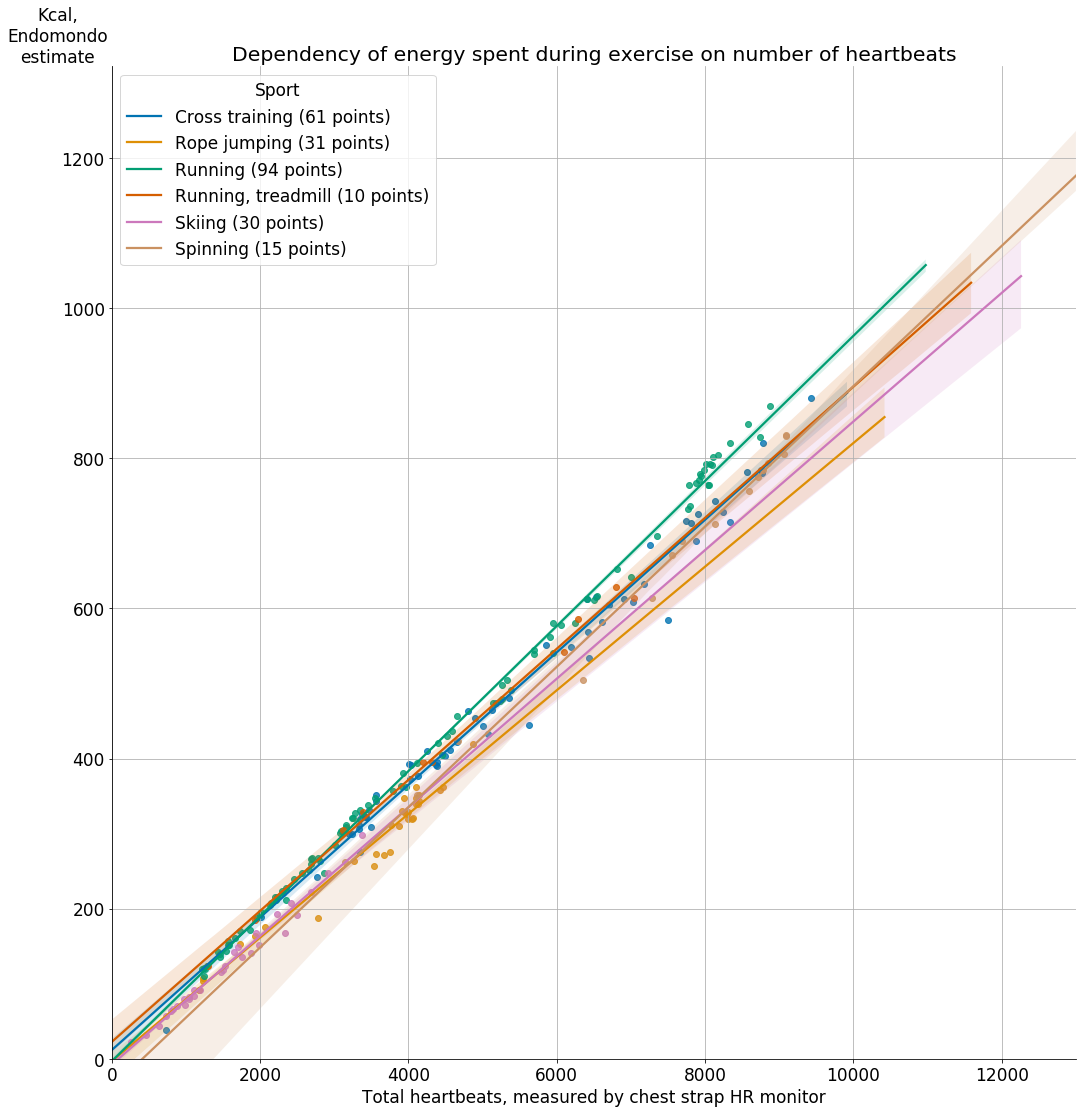
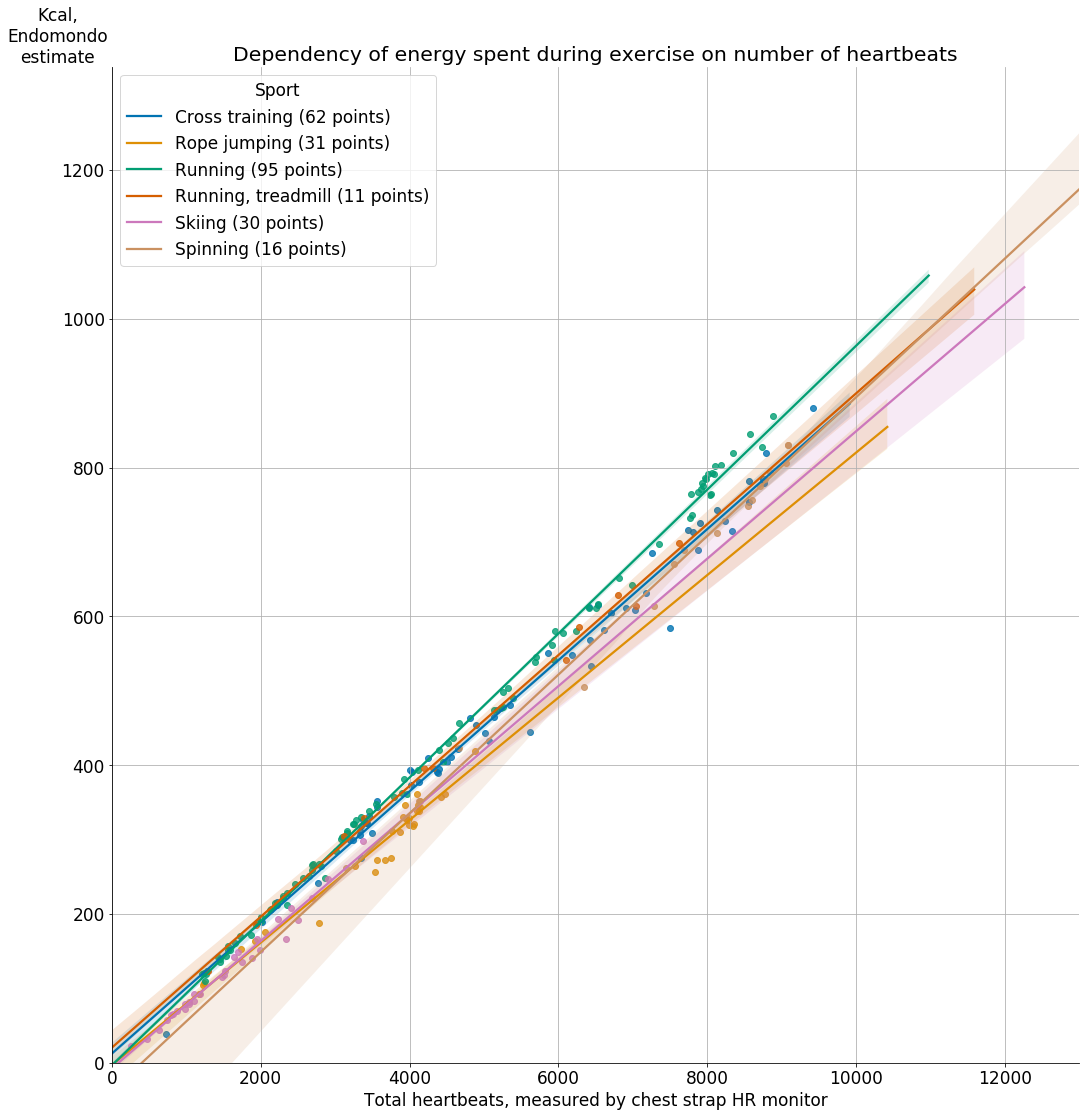
adjust margins for paragraphs

diff --git a/heartbeats_vs_kcals.html b/heartbeats_vs_kcals.html
@@ -547,7 +547,7 @@ WARNING:workout-provider:Unhandled: Cycling
 
 
 <div class="output_text output_subarea ">
-<pre>'Regression coefficient: 0.09327989169991989'</pre>
+<pre>'Regression coefficient: 0.09327436675039621'</pre>
 </div>
 
 </div>
@@ -560,7 +560,7 @@ WARNING:workout-provider:Unhandled: Cycling
 
 
 <div class="output_text output_subarea ">
-<pre>'Free term: -9.52765439804574'</pre>
+<pre>'Free term: -9.513484014189771'</pre>
 </div>
 
 </div>
@@ -617,7 +617,7 @@ WARNING:workout-provider:Unhandled: Cycling
 
 
 <div class="output_text output_subarea output_execute_result">
-<pre>8059.382642873079</pre>
+<pre>8058.905287234234</pre>
 </div>
 
 </div>

diff --git a/sandbox/Test.html b/sandbox/Test.html
@@ -236,7 +236,7 @@
 
 
 <div class="output_text output_subarea output_execute_result">
-<pre>&lt;seaborn.axisgrid.FacetGrid at 0x7efd7c0dc2b0&gt;</pre>
+<pre>&lt;seaborn.axisgrid.FacetGrid at 0x7fa4492cb2b0&gt;</pre>
 </div>
 
 </div>

diff --git a/css/default.css b/css/default.css
@@ -274,9 +274,8 @@ article .content aside {
 }
 
 
-/*  */
 a.headerlink {
-    /* padding: 0 4px 0 4px; */
+    margin-left: -1em;
     text-decoration: none;
     color: lightgrey;
 }
